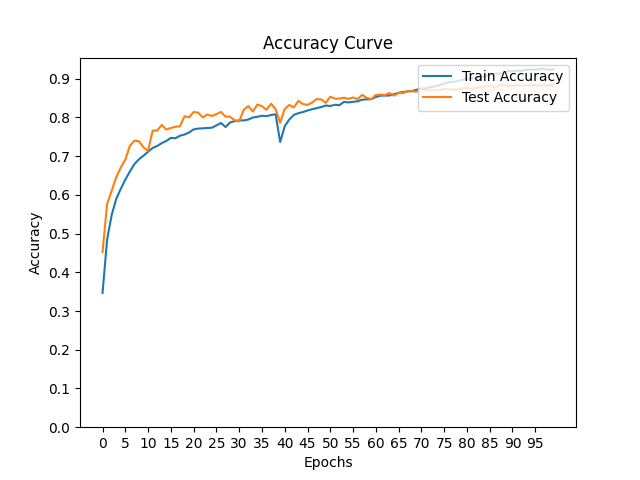
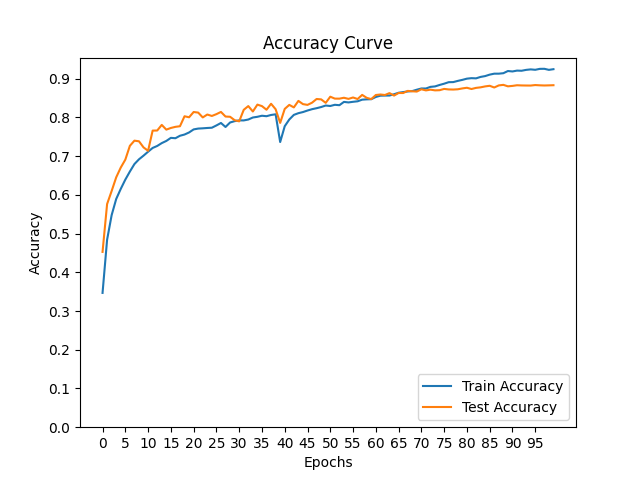
updated code for plots

diff --git a/ofa/utils.py b/ofa/utils.py
@@ -10,7 +10,7 @@ def get_num_params(net):
     param_count = sum([torch.numel(p) for p in net.parameters()])
     return param_count
     
-def plot_curves(train_accuracy, test_accuracy):
+def plot_big_network_curves(train_accuracy, test_accuracy):
     fig, ax = plt.subplots()
     train = ax.plot(np.arange(0.0, len(train_accuracy)),\
                          train_accuracy, label='Train Accuracy')
@@ -18,12 +18,192 @@ def plot_curves(train_accuracy, test_accuracy):
                          test_accuracy, label='Test Accuracy')
     ax.set(title='Accuracy Curve', xlabel='Epochs', ylabel='Accuracy')
     y_start, y_end = ax.get_ylim()
-    ax.legend(loc='upper right')
+    ax.legend(loc='lower right')
     plt.xticks(np.arange(0.0, len(train_accuracy), 5))
     plt.yticks(np.arange(0.0, y_end, 0.1))
     plt.show()
-    fig.savefig("Plot.png")
+
+def plot_elastic_depth_stage_1_curves(train_accuracy, test_accuracy1, test_accuracy2, test_accuracy3, test_accuracy4):
+    fig, ax = plt.subplots()
+    train = ax.plot(np.arange(0.0, len(train_accuracy)),\
+                         train_accuracy, label='Train Accuracy')
+    test1 = ax.plot(np.arange(0.0, len(test_accuracy1)),\
+                         test_accuracy1, label='Test Accuracy 1')
+    test2 = ax.plot(np.arange(0.0, len(test_accuracy2)),\
+                         test_accuracy2, label='Test Accuracy 2')
+    test3 = ax.plot(np.arange(0.0, len(test_accuracy3)),\
+                         test_accuracy3, label='Test Accuracy 3')
+    test4 = ax.plot(np.arange(0.0, len(test_accuracy4)),\
+                         test_accuracy4, label='Test Accuracy 4')
+    ax.set(title='Accuracy Curve', xlabel='Epochs', ylabel='Accuracy')
+    y_start, y_end = ax.get_ylim()
+    ax.legend(loc='lower right')
+    plt.xticks(np.arange(0.0, len(train_accuracy), 5))
+    plt.yticks(np.arange(0.0, y_end, 0.1))
+    plt.show()
+
+def plot_elastic_depth_stage_2_curves(train_accuracy, test_accuracy1, test_accuracy2, test_accuracy3, test_accuracy4, test_accuracy5, test_accuracy6):
+    fig, ax = plt.subplots()
+    train = ax.plot(np.arange(0.0, len(train_accuracy)),\
+                         train_accuracy, label='Train Accuracy')
+    test1 = ax.plot(np.arange(0.0, len(test_accuracy1)),\
+                         test_accuracy1, label='Test Accuracy 1')
+    test2 = ax.plot(np.arange(0.0, len(test_accuracy2)),\
+                         test_accuracy2, label='Test Accuracy 2')
+    test3 = ax.plot(np.arange(0.0, len(test_accuracy3)),\
+                         test_accuracy3, label='Test Accuracy 3')
+    test4 = ax.plot(np.arange(0.0, len(test_accuracy4)),\
+                         test_accuracy4, label='Test Accuracy 4')
+    test5 = ax.plot(np.arange(0.0, len(test_accuracy5)),\
+                         test_accuracy5, label='Test Accuracy 5')
+    test6 = ax.plot(np.arange(0.0, len(test_accuracy6)),\
+                         test_accuracy6, label='Test Accuracy 6')
+    ax.set(title='Accuracy Curve', xlabel='Epochs', ylabel='Accuracy')
+    y_start, y_end = ax.get_ylim()
+    ax.legend(loc='lower right')
+    plt.xticks(np.arange(0.0, len(train_accuracy), 5))
+    plt.yticks(np.arange(0.0, y_end, 0.1))
+    plt.show()
+
+def plot_elastic_kernel_curves(train_accuracy, test_accuracy1, test_accuracy2):
+    fig, ax = plt.subplots()
+    train = ax.plot(np.arange(0.0, len(train_accuracy)),\
+                         train_accuracy, label='Train Accuracy')
+    test1 = ax.plot(np.arange(0.0, len(test_accuracy1)),\
+                         test_accuracy1, label='Test Accuracy 1')
+    test2 = ax.plot(np.arange(0.0, len(test_accuracy2)),\
+                         test_accuracy2, label='Test Accuracy 2')
+    ax.set(title='Accuracy Curve', xlabel='Epochs', ylabel='Accuracy')
+    y_start, y_end = ax.get_ylim()
+    ax.legend(loc='lower right')
+    plt.xticks(np.arange(0.0, len(train_accuracy), 5))
+    plt.yticks(np.arange(0.0, y_end, 0.1))
+    plt.show()
+
+def plot_elastic_width_stage_1_curves(train_accuracy, test_accuracy1, test_accuracy2, test_accuracy3, test_accuracy4, test_accuracy5, test_accuracy6,\
+                                      test_accuracy7, test_accuracy8, test_accuracy9, test_accuracy10, test_accuracy11, test_accuracy12):
+    fig, ax = plt.subplots()
+    train = ax.plot(np.arange(0.0, len(train_accuracy)),\
+                         train_accuracy, label='Train Accuracy')
+    test1 = ax.plot(np.arange(0.0, len(test_accuracy1)),\
+                         test_accuracy1, label='Test Accuracy 1')
+    test2 = ax.plot(np.arange(0.0, len(test_accuracy2)),\
+                         test_accuracy2, label='Test Accuracy 2')
+    test3 = ax.plot(np.arange(0.0, len(test_accuracy3)),\
+                         test_accuracy3, label='Test Accuracy 3')
+    test4 = ax.plot(np.arange(0.0, len(test_accuracy4)),\
+                         test_accuracy4, label='Test Accuracy 4')
+    test5 = ax.plot(np.arange(0.0, len(test_accuracy5)),\
+                         test_accuracy5, label='Test Accuracy 5')
+    test6 = ax.plot(np.arange(0.0, len(test_accuracy6)),\
+                         test_accuracy6, label='Test Accuracy 6')
+    test7 = ax.plot(np.arange(0.0, len(test_accuracy7)),\
+                         test_accuracy7, label='Test Accuracy 7')
+    test8 = ax.plot(np.arange(0.0, len(test_accuracy8)),\
+                         test_accuracy8, label='Test Accuracy 8')
+    test9 = ax.plot(np.arange(0.0, len(test_accuracy9)),\
+                         test_accuracy9, label='Test Accuracy 9')
+    test10 = ax.plot(np.arange(0.0, len(test_accuracy10)),\
+                         test_accuracy10, label='Test Accuracy 10')
+    test11 = ax.plot(np.arange(0.0, len(test_accuracy11)),\
+                         test_accuracy11, label='Test Accuracy 11')
+    test12 = ax.plot(np.arange(0.0, len(test_accuracy12)),\
+                         test_accuracy12, label='Test Accuracy 12')
+    ax.set(title='Accuracy Curve', xlabel='Epochs', ylabel='Accuracy')
+    y_start, y_end = ax.get_ylim()
+    ax.legend(ncol=3, loc='lower right')
+    plt.xticks(np.arange(0.0, len(train_accuracy), 5))
+    plt.yticks(np.arange(0.0, y_end, 0.1))
+    plt.show()
+
+def plot_elastic_width_stage_2_curves(train_accuracy, test_accuracy1, test_accuracy2, test_accuracy3, test_accuracy4, test_accuracy5, test_accuracy6,\
+                                      test_accuracy7, test_accuracy8, test_accuracy9, test_accuracy10, test_accuracy11, test_accuracy12,\
+                                      test_accuracy13, test_accuracy14, test_accuracy15, test_accuracy16, test_accuracy17, test_accuracy18):
+    fig, ax = plt.subplots()
+    train = ax.plot(np.arange(0.0, len(train_accuracy)),\
+                         train_accuracy, label='Train Accuracy')
+    test1 = ax.plot(np.arange(0.0, len(test_accuracy1)),\
+                         test_accuracy1, label='Test Accuracy 1')
+    test2 = ax.plot(np.arange(0.0, len(test_accuracy2)),\
+                         test_accuracy2, label='Test Accuracy 2')
+    test3 = ax.plot(np.arange(0.0, len(test_accuracy3)),\
+                         test_accuracy3, label='Test Accuracy 3')
+    test4 = ax.plot(np.arange(0.0, len(test_accuracy4)),\
+                         test_accuracy4, label='Test Accuracy 4')
+    test5 = ax.plot(np.arange(0.0, len(test_accuracy5)),\
+                         test_accuracy5, label='Test Accuracy 5')
+    test6 = ax.plot(np.arange(0.0, len(test_accuracy6)),\
+                         test_accuracy6, label='Test Accuracy 6')
+    test7 = ax.plot(np.arange(0.0, len(test_accuracy7)),\
+                         test_accuracy7, label='Test Accuracy 7')
+    test8 = ax.plot(np.arange(0.0, len(test_accuracy8)),\
+                         test_accuracy8, label='Test Accuracy 8')
+    test9 = ax.plot(np.arange(0.0, len(test_accuracy9)),\
+                         test_accuracy9, label='Test Accuracy 9')
+    test10 = ax.plot(np.arange(0.0, len(test_accuracy10)),\
+                         test_accuracy10, label='Test Accuracy 10')
+    test11 = ax.plot(np.arange(0.0, len(test_accuracy11)),\
+                         test_accuracy11, label='Test Accuracy 11')
+    test12 = ax.plot(np.arange(0.0, len(test_accuracy12)),\
+                         test_accuracy12, label='Test Accuracy 12')
+    test13 = ax.plot(np.arange(0.0, len(test_accuracy13)),\
+                         test_accuracy13, label='Test Accuracy 13')
+    test14 = ax.plot(np.arange(0.0, len(test_accuracy14)),\
+                         test_accuracy14, label='Test Accuracy 14')
+    test15 = ax.plot(np.arange(0.0, len(test_accuracy15)),\
+                         test_accuracy15, label='Test Accuracy 15')
+    test16 = ax.plot(np.arange(0.0, len(test_accuracy16)),\
+                         test_accuracy16, label='Test Accuracy 16')
+    test17 = ax.plot(np.arange(0.0, len(test_accuracy17)),\
+                         test_accuracy17, label='Test Accuracy 17')
+    test18 = ax.plot(np.arange(0.0, len(test_accuracy18)),\
+                         test_accuracy18, label='Test Accuracy 18')
+    ax.set(title='Accuracy Curve', xlabel='Epochs', ylabel='Accuracy')
+    y_start, y_end = ax.get_ylim()
+    ax.legend(ncol=4, loc='lower right')
+    plt.xticks(np.arange(0.0, len(train_accuracy), 5))
+    plt.yticks(np.arange(0.0, y_end, 0.1))
+    plt.show()
 
 f = open('../experiments/cifar10_100_epochs_per_stage_1650866734/big_network_results.json')
 data = json.load(f)
-plot_curves(data['train_accuracies'],data['val_accuracies']['K5-D4-ExR6'])
+keys = list(data['val_accuracies'].keys())
+plot_big_network_curves(data['train_accuracies'],data['val_accuracies'][keys[0]])
+
+f = open('../experiments/cifar10_100_epochs_per_stage_1650866734/elastic_depth_stage_1_results.json')
+data = json.load(f)
+keys = list(data['val_accuracies'].keys())
+plot_elastic_depth_stage_1_curves(data['train_accuracies'], data['val_accuracies'][keys[0]], data['val_accuracies'][keys[1]],\
+                                  data['val_accuracies'][keys[2]], data['val_accuracies'][keys[3]])
+
+f = open('../experiments/cifar10_100_epochs_per_stage_1650866734/elastic_depth_stage_2_results.json')
+data = json.load(f)
+keys = list(data['val_accuracies'].keys())
+plot_elastic_depth_stage_2_curves(data['train_accuracies'], data['val_accuracies'][keys[0]], data['val_accuracies'][keys[1]],\
+                                  data['val_accuracies'][keys[2]], data['val_accuracies'][keys[3]], data['val_accuracies'][keys[4]],\
+                                  data['val_accuracies'][keys[5]])
+
+f = open('../experiments/cifar10_100_epochs_per_stage_1650866734/elastic_kernel_results.json')
+data = json.load(f)
+keys = list(data['val_accuracies'].keys())
+plot_elastic_kernel_curves(data['train_accuracies'], data['val_accuracies'][keys[0]], data['val_accuracies'][keys[1]])
+
+f = open('../experiments/cifar10_100_epochs_per_stage_1650866734/elastic_width_stage_1_results.json')
+data = json.load(f)
+keys = list(data['val_accuracies'].keys())
+plot_elastic_width_stage_1_curves(data['train_accuracies'], data['val_accuracies'][keys[0]], data['val_accuracies'][keys[1]],\
+                                  data['val_accuracies'][keys[2]], data['val_accuracies'][keys[3]], data['val_accuracies'][keys[4]],\
+                                  data['val_accuracies'][keys[5]], data['val_accuracies'][keys[6]], data['val_accuracies'][keys[7]],\
+                                  data['val_accuracies'][keys[8]], data['val_accuracies'][keys[9]], data['val_accuracies'][keys[10]],\
+                                  data['val_accuracies'][keys[11]])
+
+f = open('../experiments/cifar10_100_epochs_per_stage_1650866734/elastic_width_stage_2_results.json')
+data = json.load(f)
+keys = list(data['val_accuracies'].keys())
+plot_elastic_width_stage_2_curves(data['train_accuracies'], data['val_accuracies'][keys[0]], data['val_accuracies'][keys[1]],\
+                                  data['val_accuracies'][keys[2]], data['val_accuracies'][keys[3]], data['val_accuracies'][keys[4]],\
+                                  data['val_accuracies'][keys[5]], data['val_accuracies'][keys[6]], data['val_accuracies'][keys[7]],\
+                                  data['val_accuracies'][keys[8]], data['val_accuracies'][keys[9]], data['val_accuracies'][keys[10]],\
+                                  data['val_accuracies'][keys[11]], data['val_accuracies'][keys[12]], data['val_accuracies'][keys[13]],\
+                                  data['val_accuracies'][keys[14]], data['val_accuracies'][keys[15]], data['val_accuracies'][keys[16]],\
+                                  data['val_accuracies'][keys[17]])
